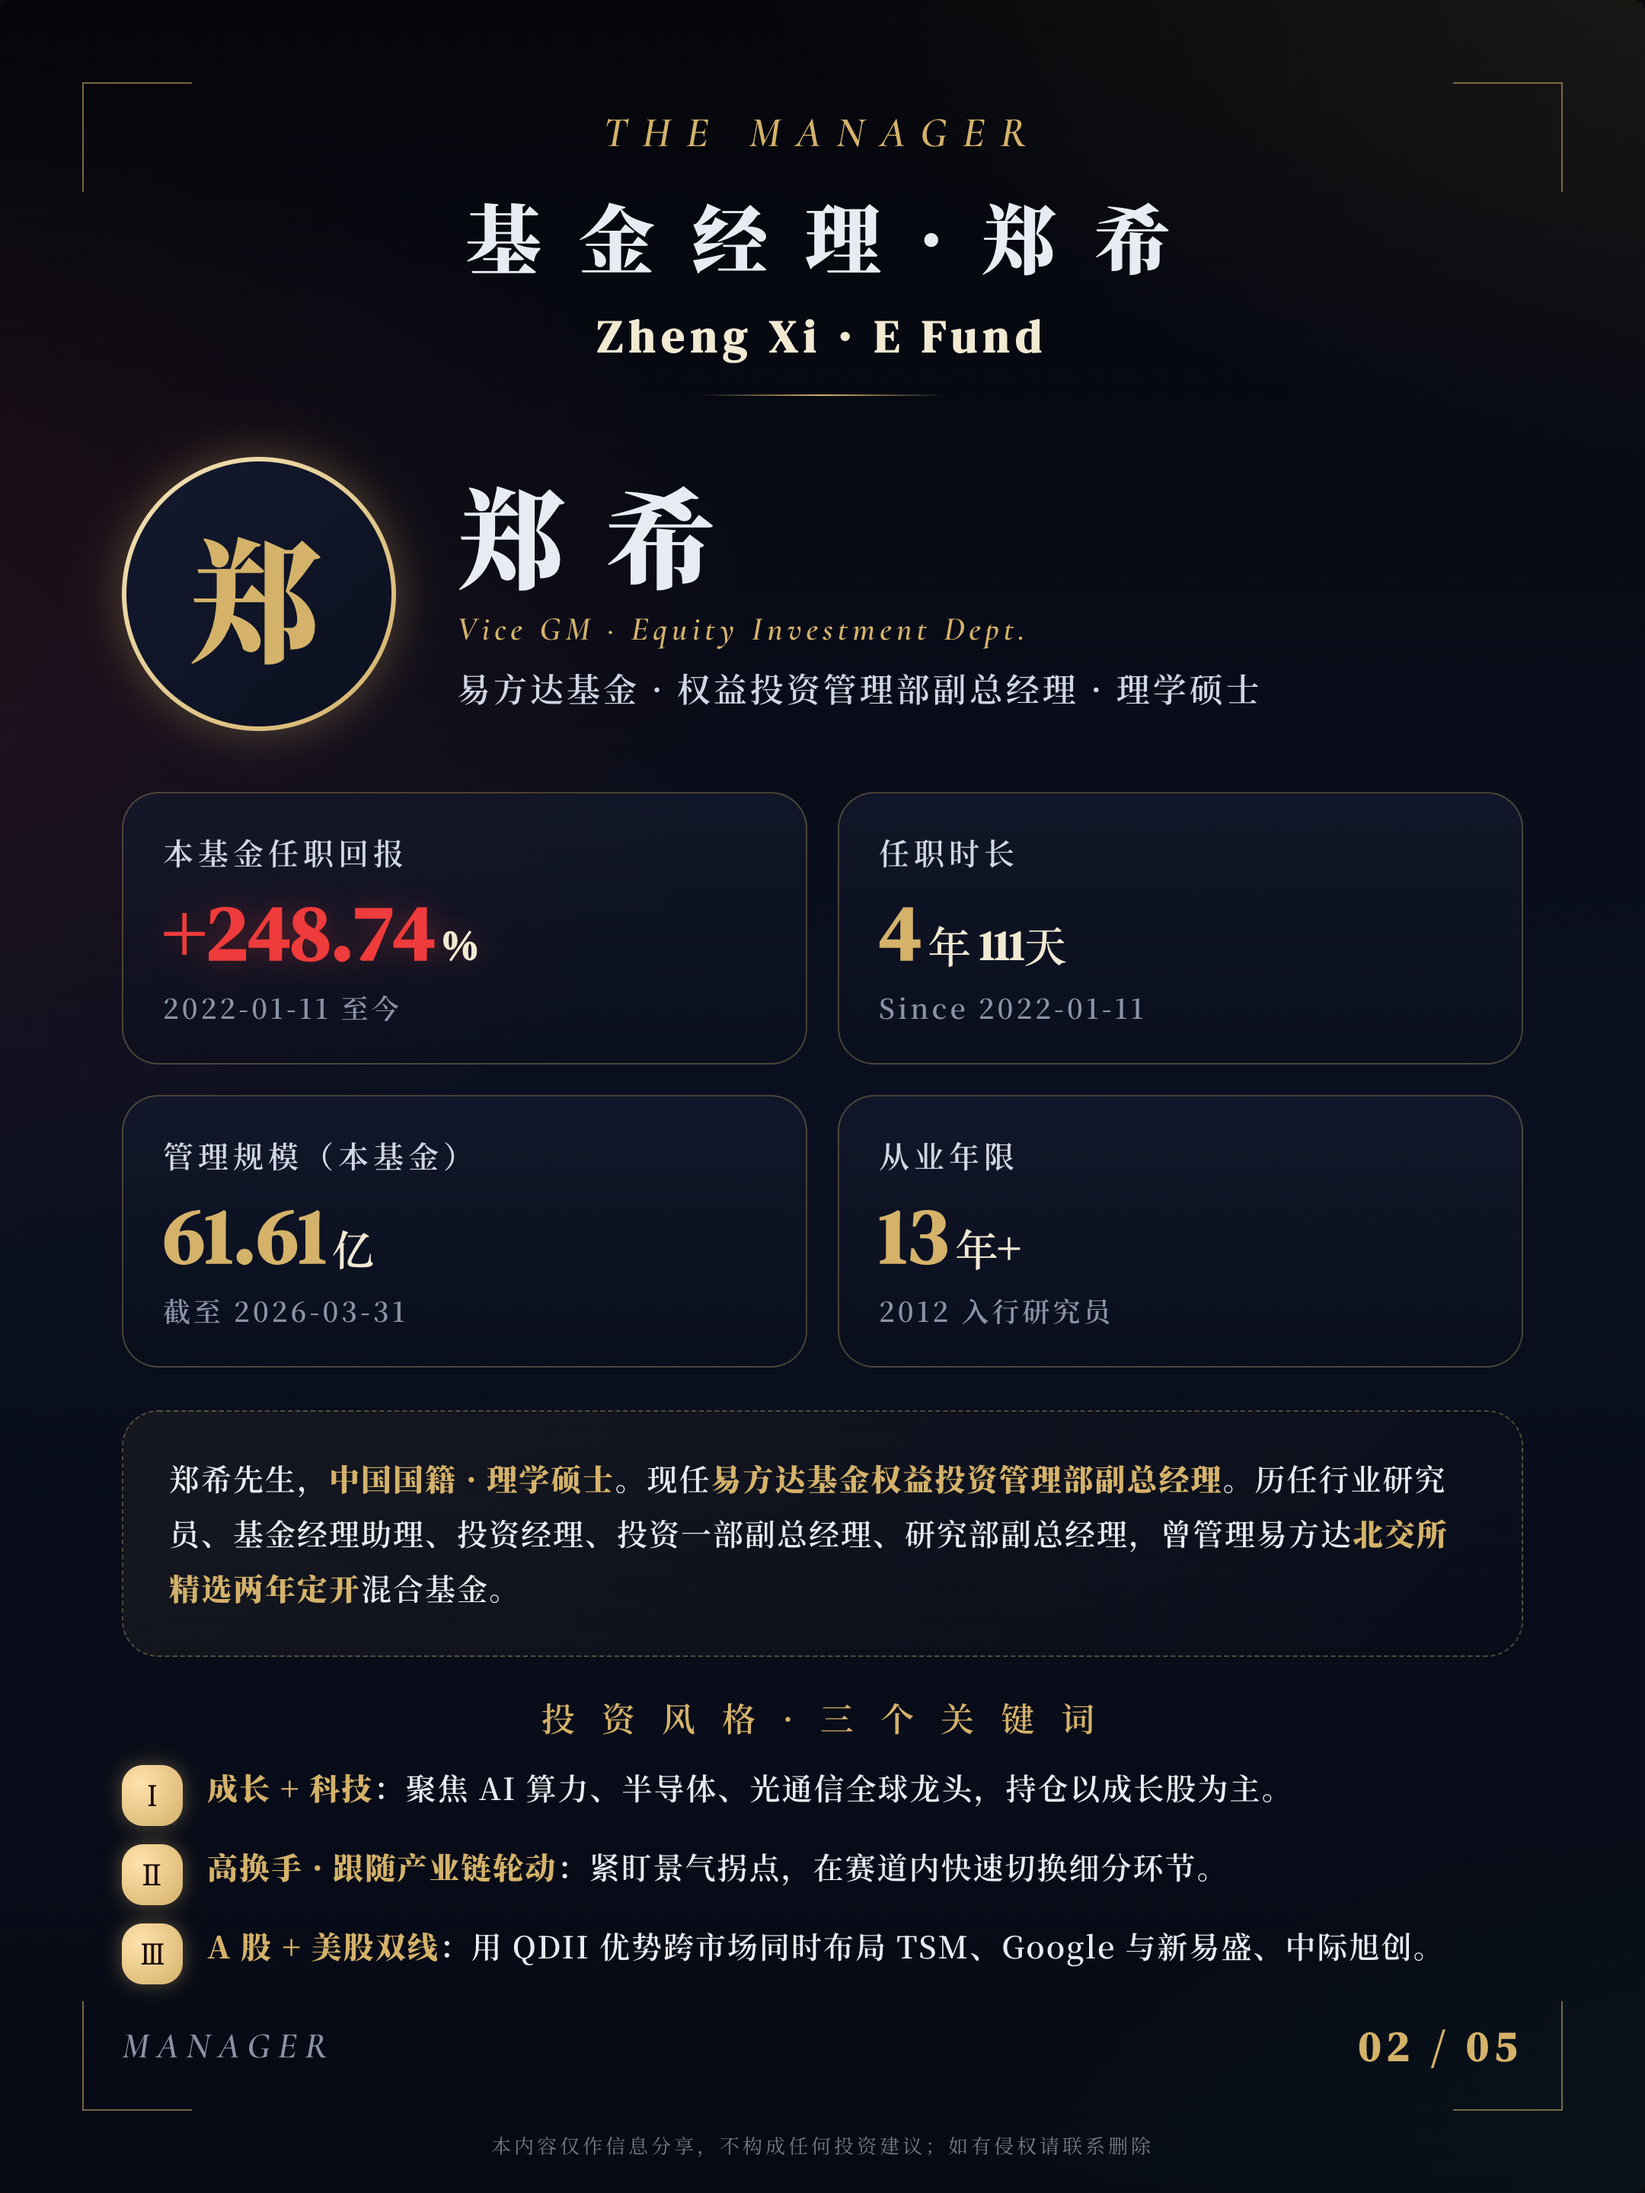
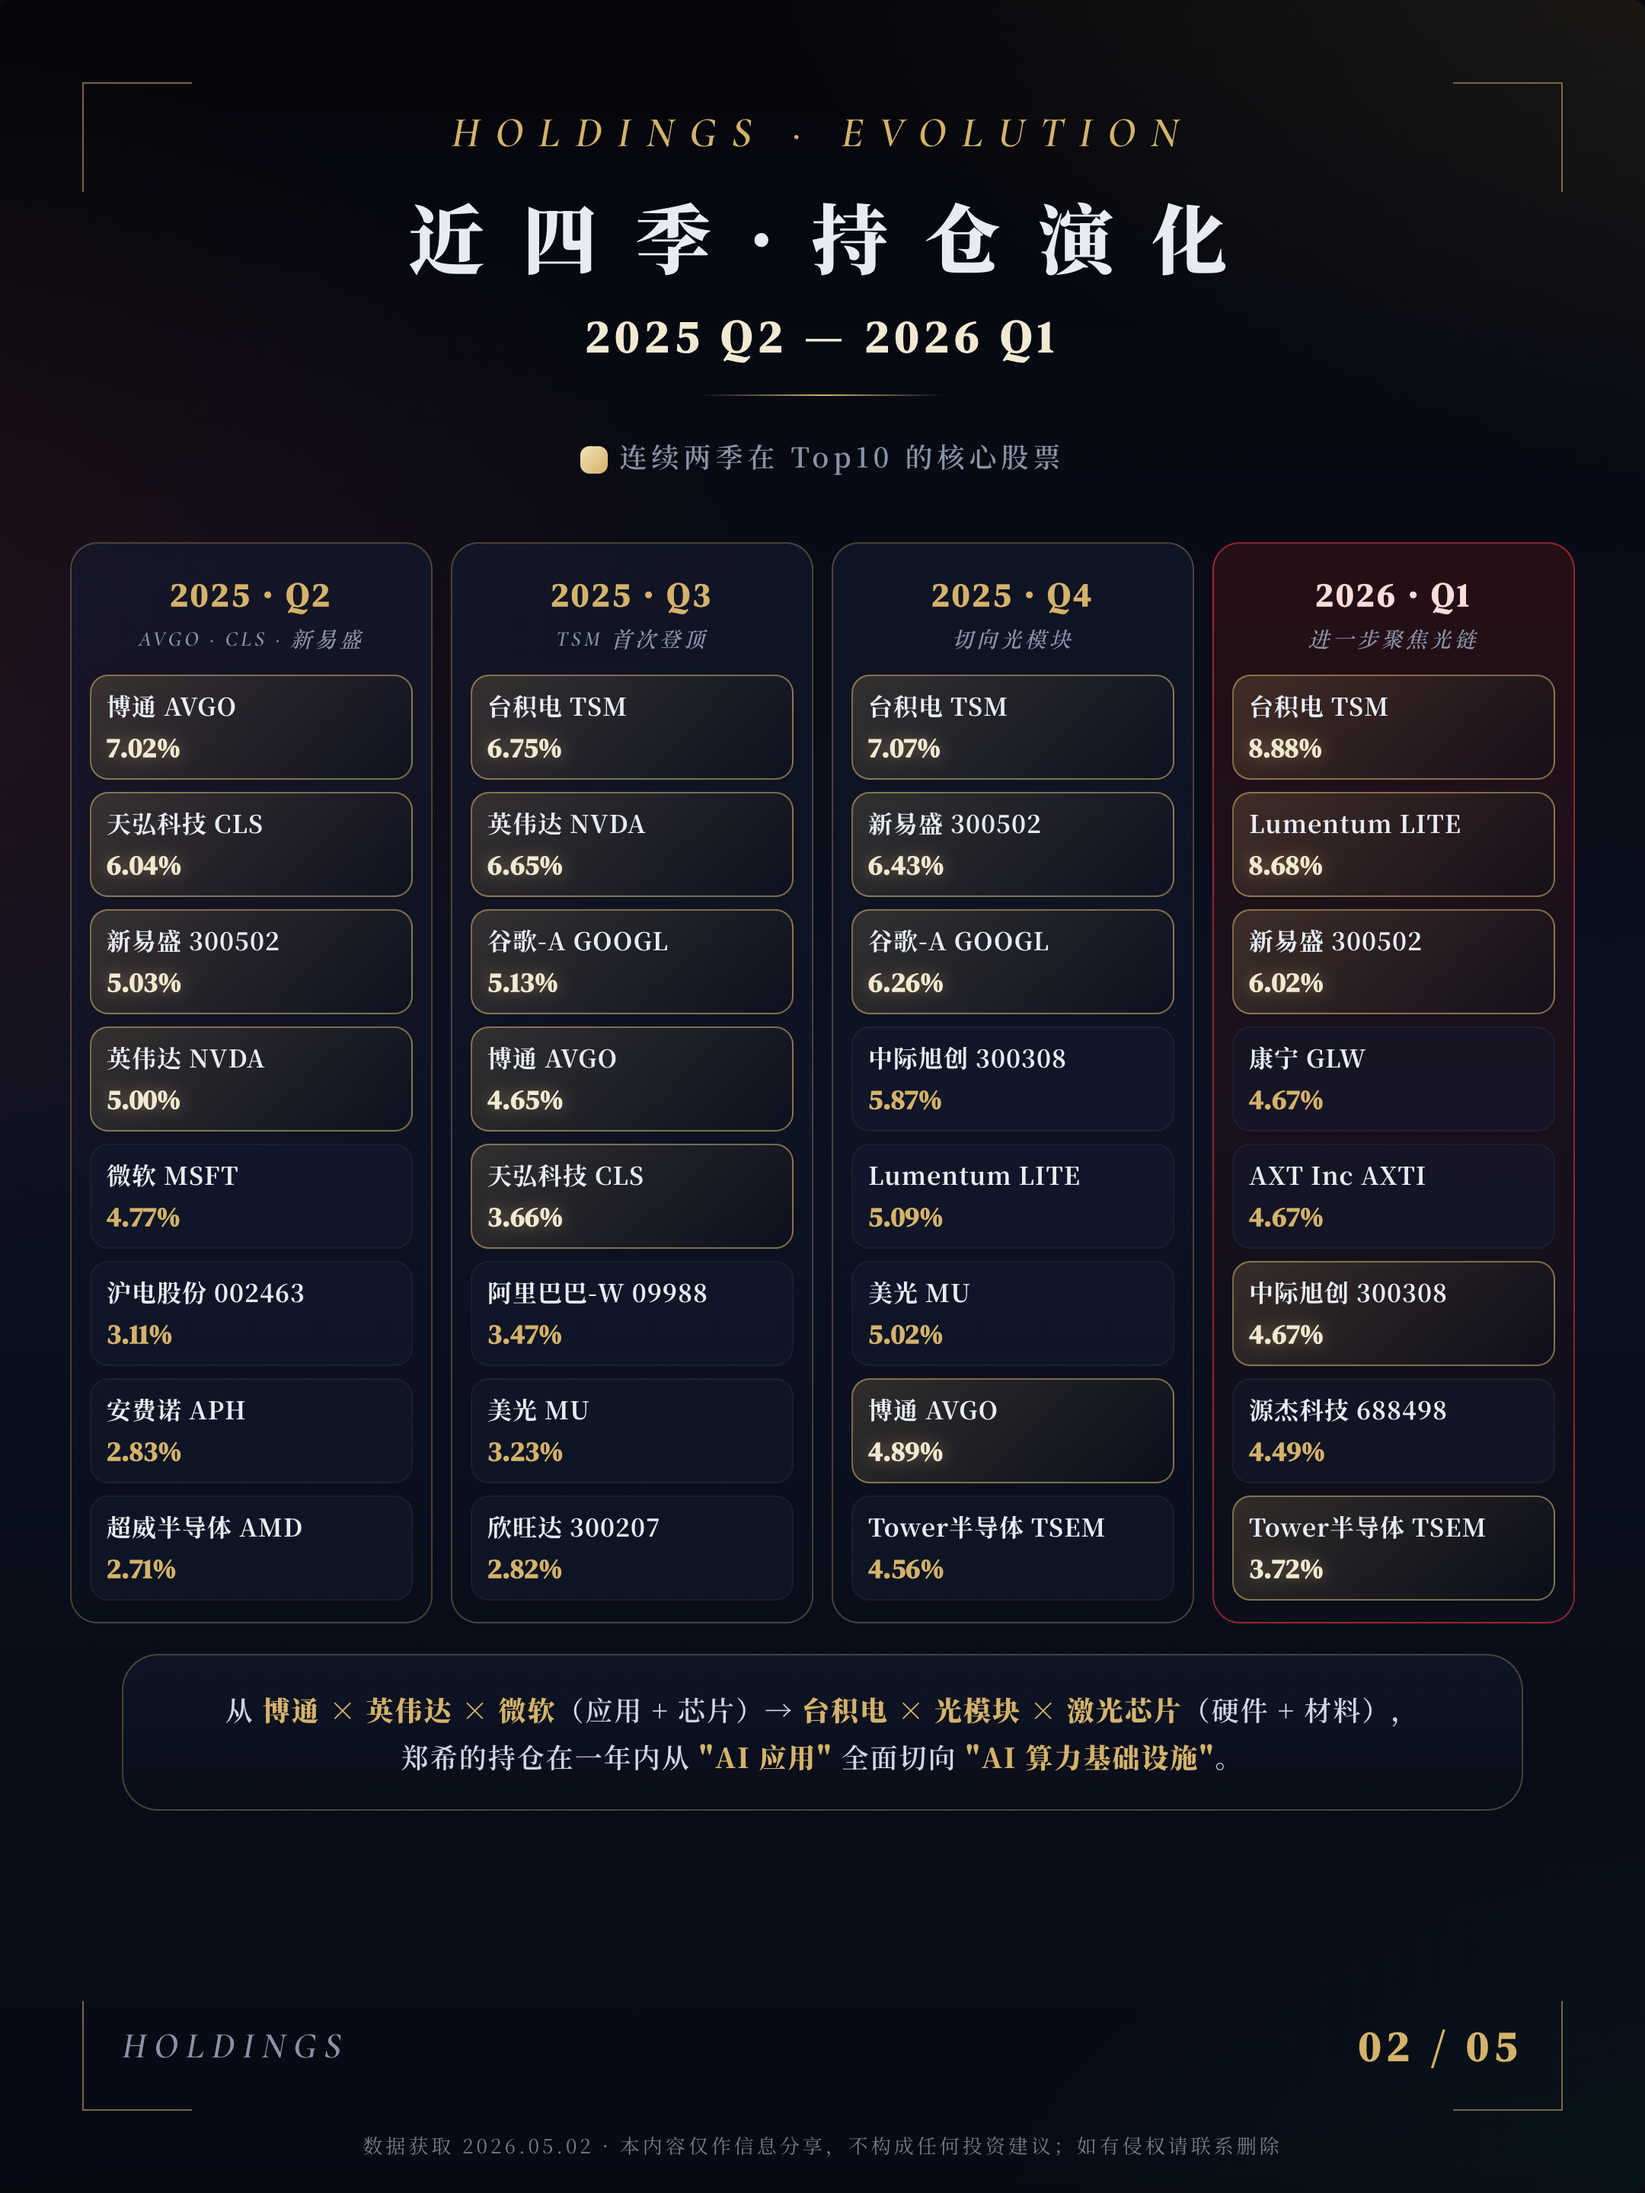
feat: 交换EFUND第2/3页(持仓演化前置) + 全页标注数据获取时间2026.05.02

diff --git a/efund_qdii/EFUND.html b/efund_qdii/EFUND.html
@@ -400,13 +400,13 @@
     <div class="cover-hint">经 理 · 持 仓 · 习 惯 · 推 测</div>
   </div>
 
-  <div class="disclaimer">本内容仅作信息分享，不构成任何投资建议；如有侵权请联系删除</div>
+  <div class="disclaimer">数据获取 2026.05.02 · 本内容仅作信息分享，不构成任何投资建议；如有侵权请联系删除</div>
   <div class="watermark">E FUND · 012922</div>
   <div class="page-num">01 / 05</div>
 </div>
 
 <!-- ============ 卡片 2 · 基金经理名片 ============ -->
-<div class="card" id="p2">
+<div class="card" id="p3">
   <div class="corner tl"></div><div class="corner tr"></div>
   <div class="corner bl"></div><div class="corner br"></div>
 
@@ -471,13 +471,13 @@
     </div>
   </div>
 
-  <div class="disclaimer">本内容仅作信息分享，不构成任何投资建议；如有侵权请联系删除</div>
+  <div class="disclaimer">数据获取 2026.05.02 · 本内容仅作信息分享，不构成任何投资建议；如有侵权请联系删除</div>
   <div class="watermark">MANAGER</div>
-  <div class="page-num">02 / 05</div>
+  <div class="page-num">03 / 05</div>
 </div>
 
 <!-- ============ 卡片 3 · 季度持仓演化 ============ -->
-<div class="card" id="p3">
+<div class="card" id="p2">
   <div class="corner tl"></div><div class="corner tr"></div>
   <div class="corner bl"></div><div class="corner br"></div>
 
@@ -560,9 +560,9 @@
     <br/>郑希的持仓在一年内从 <b>"AI 应用"</b> 全面切向 <b>"AI 算力基础设施"</b>。
   </div>
 
-  <div class="disclaimer">本内容仅作信息分享，不构成任何投资建议；如有侵权请联系删除</div>
+  <div class="disclaimer">数据获取 2026.05.02 · 本内容仅作信息分享，不构成任何投资建议；如有侵权请联系删除</div>
   <div class="watermark">HOLDINGS</div>
-  <div class="page-num">03 / 05</div>
+  <div class="page-num">02 / 05</div>
 </div>
 
 <!-- ============ 卡片 4 · 投资习惯 ============ -->
@@ -620,7 +620,7 @@
     一旦判断产业链拐点切换（如 <b>应用 → 算力 → 光通信</b>），就会毫不犹豫重构前十。
   </div>
 
-  <div class="disclaimer">本内容仅作信息分享，不构成任何投资建议；如有侵权请联系删除</div>
+  <div class="disclaimer">数据获取 2026.05.02 · 本内容仅作信息分享，不构成任何投资建议；如有侵权请联系删除</div>
   <div class="watermark">HABITS</div>
   <div class="page-num">04 / 05</div>
 </div>
@@ -670,7 +670,7 @@
     <div class="btn">END · 关 注 获 取 下 季 复 盘</div>
   </div>
 
-  <div class="disclaimer">本内容仅作信息分享，不构成任何投资建议；如有侵权请联系删除</div>
+  <div class="disclaimer">数据获取 2026.05.02 · 本内容仅作信息分享，不构成任何投资建议；如有侵权请联系删除</div>
   <div class="watermark">FORECAST</div>
   <div class="page-num">05 / 05</div>
 </div>

diff --git a/efund_qdii/s1_report.html b/efund_qdii/s1_report.html
@@ -178,7 +178,7 @@
     <div class="row"><span class="k">投资范围</span><span class="v">A 股 / 美股 / 港股</span></div>
   </div>
 
-  <div class="c-foot"><span>本内容仅作信息分享，不构成任何投资建议；如有侵权请联系删除</span><span></span></div>
+  <div class="c-foot"><span>数据获取 2026.05.02 · 本内容仅作信息分享，不构成任何投资建议；如有侵权请联系删除</span><span></span></div>
 </div>
 
 <!-- ============ 卡片 2 · 持仓季度分卡 ============ -->
@@ -239,7 +239,7 @@
     </div>
   </div>
 
-  <div class="c-foot"><span>本内容仅作信息分享，不构成任何投资建议；如有侵权请联系删除</span><span></span></div>
+  <div class="c-foot"><span>数据获取 2026.05.02 · 本内容仅作信息分享，不构成任何投资建议；如有侵权请联系删除</span><span></span></div>
 </div>
 
 <!-- ============ 卡片 3 · 经理名片 ============ -->
@@ -276,7 +276,7 @@
     <div class="li"><div class="n">03</div><div><b>A 股 + 美股双线</b>：用 QDII 优势跨市场同时布局 TSM、Google 与新易盛、中际旭创。</div></div>
   </div>
 
-  <div class="c-foot"><span>本内容仅作信息分享，不构成任何投资建议；如有侵权请联系删除</span><span></span></div>
+  <div class="c-foot"><span>数据获取 2026.05.02 · 本内容仅作信息分享，不构成任何投资建议；如有侵权请联系删除</span><span></span></div>
 </div>
 
 <!-- ============ 卡片 4 · 四个交易习惯 ============ -->
@@ -314,7 +314,7 @@
     一旦判断产业链拐点切换（如 <b>应用 → 算力 → 光通信</b>），就会果断重构前十。
   </div>
 
-  <div class="c-foot"><span>本内容仅作信息分享，不构成任何投资建议；如有侵权请联系删除</span><span></span></div>
+  <div class="c-foot"><span>数据获取 2026.05.02 · 本内容仅作信息分享，不构成任何投资建议；如有侵权请联系删除</span><span></span></div>
 </div>
 
 <!-- ============ 卡片 5 · 下期推测 ============ -->
@@ -345,7 +345,7 @@
     <b>⚠ 风险提示</b>　本推测仅基于公开季报规律外推 · 历史习惯不等于未来动作 · 请理性决策
   </div>
 
-  <div class="c-foot"><span>本内容仅作信息分享，不构成任何投资建议；如有侵权请联系删除</span><span></span></div>
+  <div class="c-foot"><span>数据获取 2026.05.02 · 本内容仅作信息分享，不构成任何投资建议；如有侵权请联系删除</span><span></span></div>
 </div>
 
 </body>
